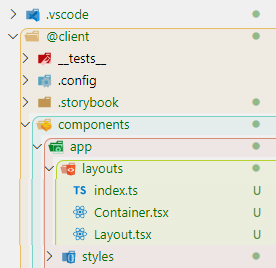
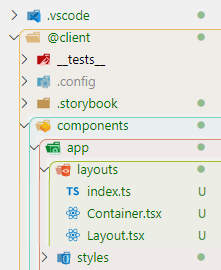
10

diff --git a/mixins.example.js b/mixins.example.js
@@ -1,11 +1,11 @@
 const { hsl, rgb } = require('./src/utils')
 
 module.exports = {
-    indentSize: 8, // ツリーのインデント ("workbench.tree.indent" で設定、デフォルト: 8)
+    indentSize: 10,
 
     alpha: {
         border: 1, // border の不透明度
-        background: 0.1, // background の不透明度
+        background: 0.06, // background の不透明度
     },
     colors: {
         // 各階層の色、hsl() または rgb() で指定
@@ -13,7 +13,7 @@ module.exports = {
         2: hsl(40, 75, 65),
         3: hsl(170, 50, 65),
         4: hsl(15, 55, 65),
-        5: hsl(70, 65, 50),
+        5: hsl(70, 65, 45),
         6: hsl(205, 55, 65),
         7: hsl(340, 40, 65),
         8: null,

diff --git a/src/build.js b/src/build.js
@@ -7,7 +7,7 @@ const c = (n, border = false) => {
     return color ? color(border ? alpha.border : alpha.background) : transparent
 }
 
-const p = (n, offset = 0) => `${3 + offset + indentSize * n}px`
+const p = (n, offset = 0) => `${-indentSize + 15 + offset + indentSize * n}px`
 
 const cp = (cargs, pargs) => `${c(...cargs)} ${p(...pargs)}`
 
